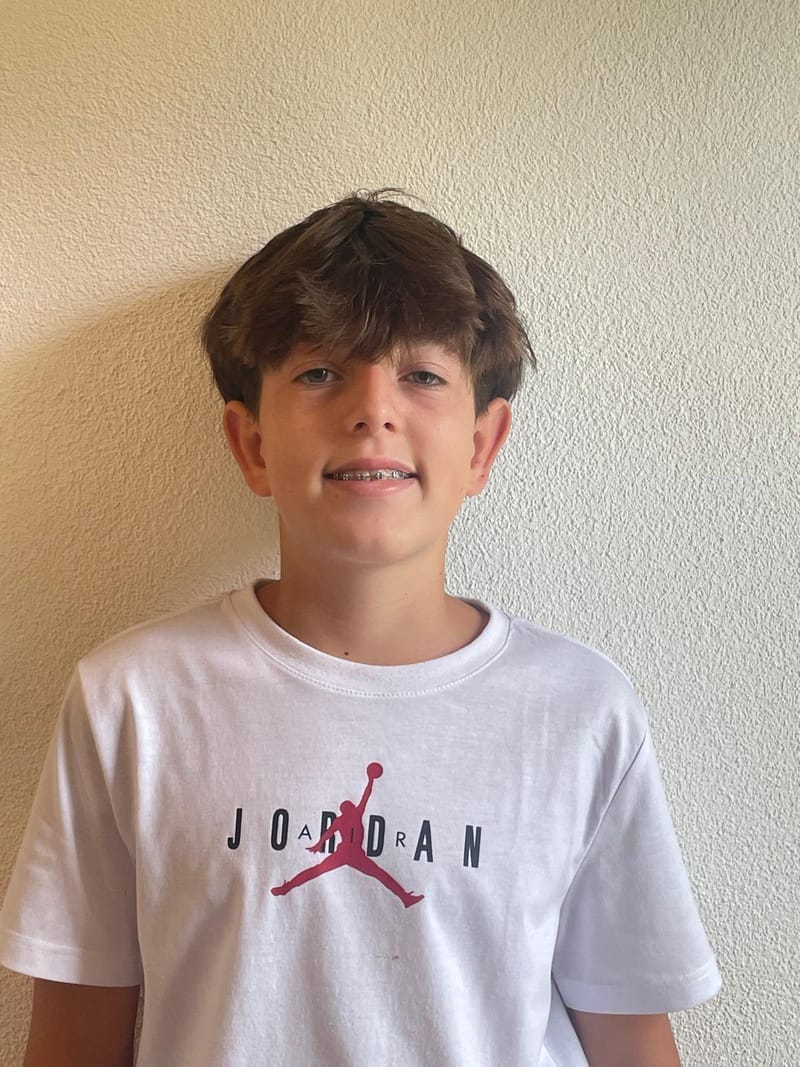
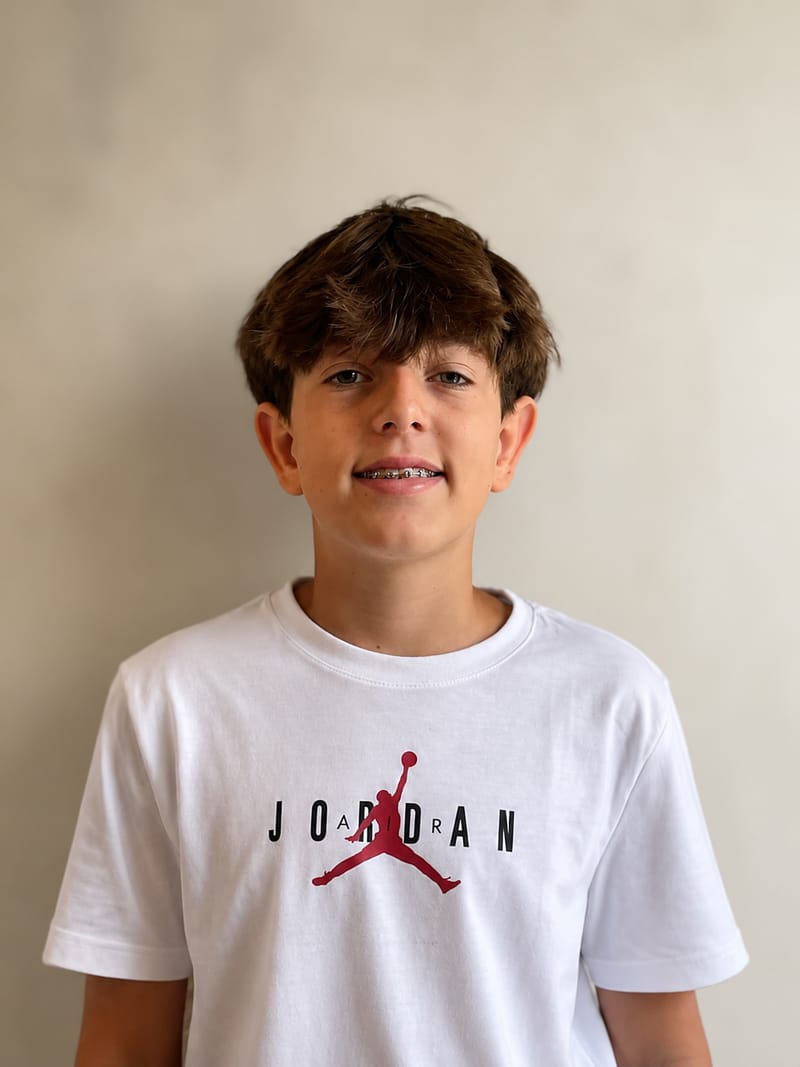
SEO verbesserungen Neues robots.txt und sitemap.xml Performance optimierung für bilder ladezeiten Hauptbild optimiert github verlinkung optimiert

diff --git a/index.html b/index.html
@@ -35,7 +35,7 @@
    11. <script src>    – Einbindung script.js
   ============================================================
 -->
-<html lang="de">
+<html lang="de-CH">
 <head>
   <!-- ─────────────────────────────────────────────────────
        META & SEO
@@ -44,9 +44,10 @@
   ───────────────────────────────────────────────────────── -->
   <meta charset="UTF-8" />
   <meta name="viewport" content="width=device-width, initial-scale=1.0" />
-  <meta name="description" content="Jaron Sommer – Schüler aus Wiedlisbach, auf der Suche nach einer Lehrstelle als Informatiker/in EFZ Applikationsentwicklung. Zweitwunsch: Automatiker oder Mediamatiker." />
+  <meta name="description" content="Jaron Sommer – Schüler aus Wiedlisbach (Kanton Bern), auf der Suche nach einer Lehrstelle als Informatiker/in EFZ Applikationsentwicklung oder Automatiker/in EFZ. Start August 2027." />
   <meta name="author" content="Jaron Sommer" />
-  <title>Jaron Sommer</title>
+  <link rel="canonical" href="https://jaronsommer.github.io/" />
+  <title>Jaron Sommer – Lehrstelle Informatiker EFZ oder Automatiker</title>
 
   <!-- ─────────────────────────────────────────────────────
        FAVICON
@@ -56,22 +57,33 @@
   <link rel="icon" type="image/svg+xml" href="favicon.svg" />
 
   <!-- ─────────────────────────────────────────────────────
+       LCP-PRELOAD
+       Hero-Portrait ist das groesste sichtbare Element beim
+       Laden (Largest Contentful Paint). Preload startet den
+       Download frueh – noch vor CSS/Fonts – und verbessert
+       die wahrgenommene Ladezeit spuerbar.
+  ───────────────────────────────────────────────────────── -->
+  <link rel="preload" as="image" href="images/Jaron.jpg" fetchpriority="high" />
+
+  <!-- ─────────────────────────────────────────────────────
        SOCIAL SHARING (Open Graph & Twitter Card)
        Diese Tags steuern die Vorschau, wenn der Link in
        WhatsApp, Teams, LinkedIn, Slack oder per E-Mail
        geteilt wird: Titel, Beschreibung und Vorschaubild.
   ───────────────────────────────────────────────────────── -->
-  <meta property="og:type"        content="website" />
-  <meta property="og:url"         content="https://jaronsommer.github.io/" />
-  <meta property="og:title"       content="Jaron Sommer – auf Lehrstellensuche" />
-  <meta property="og:description" content="Schüler aus Wiedlisbach, auf der Suche nach einer Lehrstelle als Informatiker/in EFZ Applikationsentwicklung. Zweitwunsch: Automatiker oder Mediamatiker." />
-  <meta property="og:image"       content="https://jaronsommer.github.io/images/Jaron.jpg" />
-  <meta property="og:image:alt"   content="Portrait von Jaron Sommer" />
-  <meta property="og:locale"      content="de_CH" />
+  <meta property="og:type"         content="website" />
+  <meta property="og:url"          content="https://jaronsommer.github.io/" />
+  <meta property="og:title"        content="Jaron Sommer – auf Lehrstellensuche" />
+  <meta property="og:description"  content="Schüler aus Wiedlisbach, auf der Suche nach einer Lehrstelle als Informatiker/in EFZ Applikationsentwicklung oder Automatiker/in EFZ. Start August 2027." />
+  <meta property="og:image"        content="https://jaronsommer.github.io/images/Jaron.jpg" />
+  <meta property="og:image:alt"    content="Portrait von Jaron Sommer" />
+  <meta property="og:image:width"  content="800" />
+  <meta property="og:image:height" content="1067" />
+  <meta property="og:locale"       content="de_CH" />
 
   <meta name="twitter:card"        content="summary_large_image" />
   <meta name="twitter:title"       content="Jaron Sommer – auf Lehrstellensuche" />
-  <meta name="twitter:description" content="Schüler aus Wiedlisbach, auf der Suche nach einer Lehrstelle als Informatiker/in EFZ Applikationsentwicklung. Zweitwunsch: Automatiker oder Mediamatiker." />
+  <meta name="twitter:description" content="Schüler aus Wiedlisbach, auf der Suche nach einer Lehrstelle als Informatiker/in EFZ Applikationsentwicklung oder Automatiker/in EFZ. Start August 2027." />
   <meta name="twitter:image"       content="https://jaronsommer.github.io/images/Jaron.jpg" />
 
   <!-- ─────────────────────────────────────────────────────
@@ -84,6 +96,44 @@
   <link href="https://fonts.googleapis.com/css2?family=DM+Serif+Display&family=DM+Sans:wght@300;400;500;600&display=swap" rel="stylesheet" />
 
   <link rel="stylesheet" href="styles.css" />
+
+  <!-- ─────────────────────────────────────────────────────
+       STRUKTURIERTE DATEN (JSON-LD, schema.org/Person)
+       Hilft Google zu verstehen: Person auf Lehrstellensuche,
+       Wohnort, gesuchte Berufe, Sprachen, Kenntnisse.
+       Bei Inhalts-Änderungen (Wohnort, Berufswunsch) hier
+       mitpflegen – muss zum sichtbaren Text passen.
+  ───────────────────────────────────────────────────────── -->
+  <script type="application/ld+json">
+  {
+    "@context": "https://schema.org",
+    "@type": "Person",
+    "name": "Jaron Sommer",
+    "url": "https://jaronsommer.github.io/",
+    "image": "https://jaronsommer.github.io/images/Jaron.jpg",
+    "jobTitle": "Lernende/r in spe – Informatiker/in EFZ Applikationsentwicklung oder Automatiker/in EFZ",
+    "description": "Schüler aus Wiedlisbach (Kanton Bern) auf der Suche nach einer Lehrstelle als Informatiker/in EFZ Applikationsentwicklung oder Automatiker/in EFZ. Lehrbeginn August 2027.",
+    "address": {
+      "@type": "PostalAddress",
+      "addressLocality": "Wiedlisbach",
+      "addressRegion": "Bern",
+      "addressCountry": "CH"
+    },
+    "knowsLanguage": ["gsw", "de", "fr", "en"],
+    "knowsAbout": [
+      "Programmierung",
+      "Applikationsentwicklung",
+      "Automatik",
+      "Mediamatik",
+      "Microsoft Office 365"
+    ],
+    "seeks": {
+      "@type": "Demand",
+      "name": "Lehrstelle Informatiker/in EFZ Applikationsentwicklung oder Automatiker/in EFZ"
+    },
+    "sameAs": ["https://github.com/jaronsommer"]
+  }
+  </script>
 </head>
 <body>
 
@@ -155,7 +205,7 @@
 
     <!-- Right column: portrait photo -->
     <div class="hero-photo">
-      <img src="images/Jaron.jpg" alt="Jaron Sommer" />
+      <img src="images/Jaron.jpg" alt="Jaron Sommer" width="800" height="1067" fetchpriority="high" decoding="async" />
     </div>
 
   </div>
@@ -477,7 +527,7 @@
           An meinem Schnuppertag im Berufslernverbund habe ich den Beruf Automatiker kennengelernt und einen funktionsfähigen Gameboy von Grund auf gebaut. Dabei habe ich zum ersten Mal gelötet, Kabel konfektioniert und die einzelnen Bauteile zu einem fertigen Gerät zusammengesetzt.
         </p>
         <figure class="report-figure">
-          <img src="images/gameboy.jpeg" alt="Selbst zusammengebauter Gameboy mit gelöteten Komponenten" loading="lazy" />
+          <img src="images/gameboy.jpeg" alt="Selbst zusammengebauter Gameboy mit gelöteten Komponenten" width="800" height="1067" loading="lazy" decoding="async" />
         </figure>
         <a href="https://berufslernverbund.ch/" target="_blank" rel="noopener noreferrer" class="report-modal-link">berufslernverbund.ch ↗</a>
       </article>
@@ -507,7 +557,7 @@
       <!-- Projekt 1: TastenPanik -->
       <article class="project-card">
         <a href="https://jaronsommer.github.io/TastenPanik/" class="project-media" target="_blank" rel="noopener noreferrer" aria-label="Live-Demo TastenPanik öffnen">
-          <img src="images/tastenpanik.png" alt="Screenshot von TastenPanik – Level-Auswahl mit vier Karten" loading="lazy" />
+          <img src="images/tastenpanik.png" alt="Screenshot von TastenPanik – Level-Auswahl mit vier Karten" width="800" height="500" loading="lazy" decoding="async" />
           <span class="project-media-overlay">Live ansehen ↗</span>
         </a>
         <div class="project-body">
@@ -550,7 +600,7 @@
       <!-- Projekt 2: weisserLeopard -->
       <article class="project-card">
         <a href="https://jaronsommer.github.io/weisserLeopard/" class="project-media" target="_blank" rel="noopener noreferrer" aria-label="Live-Demo Weisser Leopard öffnen">
-          <img src="images/weisser-leopard.png" alt="Screenshot der Webseite ‚Die drei ??? und der weisse Leopard‘" loading="lazy" />
+          <img src="images/weisser-leopard.png" alt="Screenshot der Webseite ‚Die drei ??? und der weisse Leopard‘" width="800" height="500" loading="lazy" decoding="async" />
           <span class="project-media-overlay">Live ansehen ↗</span>
         </a>
         <div class="project-body">
@@ -593,7 +643,7 @@
       <!-- Projekt 3: Diese Portfolio-Webseite -->
       <article class="project-card">
         <a href="https://jaronsommer.github.io/" class="project-media" target="_blank" rel="noopener noreferrer" aria-label="Live-Demo Portfolio öffnen">
-          <img src="images/portfolio.png" alt="Screenshot der Portfolio-Webseite mit Hero und Portrait" loading="lazy" />
+          <img src="images/portfolio.png" alt="Screenshot der Portfolio-Webseite mit Hero und Portrait" width="800" height="500" loading="lazy" decoding="async" />
           <span class="project-media-overlay">Live ansehen ↗</span>
         </a>
         <div class="project-body">
@@ -634,6 +684,23 @@
       </article>
 
     </div>
+
+    <!-- ── GitHub-Profilkarte ─────────────────────────────
+         Dezenter Abschluss der Projekte: verweist aufs
+         GitHub-Profil, wo der Quellcode aller Projekte liegt.
+    ──────────────────────────────────────────────────── -->
+    <aside class="github-cta">
+      <svg class="github-cta-mark" viewBox="0 0 16 16" fill="currentColor" aria-hidden="true">
+        <path d="M8 0C3.58 0 0 3.58 0 8c0 3.54 2.29 6.53 5.47 7.59.4.07.55-.17.55-.38 0-.19-.01-.82-.01-1.49-2.01.37-2.53-.49-2.69-.94-.09-.23-.48-.94-.82-1.13-.28-.15-.68-.52-.01-.53.63-.01 1.08.58 1.23.82.72 1.21 1.87.87 2.33.66.07-.52.28-.87.51-1.07-1.78-.2-3.64-.89-3.64-3.95 0-.87.31-1.59.82-2.15-.08-.2-.36-1.02.08-2.12 0 0 .67-.21 2.2.82.64-.18 1.32-.27 2-.27.68 0 1.36.09 2 .27 1.53-1.04 2.2-.82 2.2-.82.44 1.1.16 1.92.08 2.12.51.56.82 1.27.82 2.15 0 3.07-1.87 3.75-3.65 3.95.29.25.54.73.54 1.48 0 1.07-.01 1.93-.01 2.2 0 .21.15.46.55.38A8.013 8.013 0 0016 8c0-4.42-3.58-8-8-8z"/>
+      </svg>
+      <div class="github-cta-text">
+        <p class="github-cta-title">Mehr auf GitHub</p>
+        <p class="github-cta-desc">Der vollständige Quellcode all meiner Projekte ist öffentlich einsehbar.</p>
+      </div>
+      <a href="https://github.com/jaronsommer" class="github-cta-btn" target="_blank" rel="noopener noreferrer">
+        Profil ansehen ↗
+      </a>
+    </aside>
   </div>
 </section>
 

diff --git a/styles.css b/styles.css
@@ -297,6 +297,7 @@
        regardless of the image's original dimensions. */
     .hero-photo img {
       width: 100%;
+      height: auto;              /* overrides the HTML height attr (presentation hint) so aspect-ratio governs the box */
       aspect-ratio: 3 / 4;       /* portrait proportion */
       object-fit: cover;
       object-position: center top; /* favour the face */
@@ -1044,6 +1045,60 @@
       color: var(--white);
     }
 
+    /* GitHub-Profilkarte: ruhiger Abschluss unter dem Projekte-Raster */
+    .github-cta {
+      display: flex;
+      align-items: center;
+      gap: 1.25rem;
+      margin-top: 2rem;
+      padding: 1.5rem 1.75rem;
+      border: 1px solid var(--ink-faint);
+      border-radius: var(--radius-md);
+      background: var(--white);
+      transition: border-color 0.25s ease, box-shadow 0.25s ease;
+    }
+    .github-cta:hover {
+      border-color: var(--accent);
+      box-shadow: 0 14px 32px rgba(43,92,230,0.12);
+    }
+    .github-cta-mark {
+      width: 34px;
+      height: 34px;
+      flex-shrink: 0;
+      color: var(--ink);
+    }
+    .github-cta-text {
+      flex: 1;
+      min-width: 0;
+    }
+    .github-cta-title {
+      font-weight: 600;
+      font-size: 1rem;
+      color: var(--ink);
+    }
+    .github-cta-desc {
+      font-size: 0.85rem;
+      color: var(--ink-light);
+      margin-top: 0.15rem;
+    }
+    .github-cta-btn {
+      flex-shrink: 0;
+      display: inline-flex;
+      align-items: center;
+      padding: 0.55rem 1.15rem;
+      border-radius: 100px;
+      font-size: 0.8rem;
+      font-weight: 500;
+      border: 1px solid var(--ink);
+      background: var(--ink);
+      color: var(--white);
+      transition: background 0.18s ease, border-color 0.18s ease;
+    }
+    .github-cta-btn:hover {
+      background: var(--accent);
+      border-color: var(--accent);
+    }
+
     /* ══════════════════════════════════════════════════════
        SKILLS-SEKTION
        Drei Blöcke: Sprachen, IT-Tools, Interessen/Hobbys.
@@ -1267,15 +1322,20 @@
 
     .footer-link {
       font-size: 0.78rem;
-      color: var(--ink-faint);
+      color: var(--ink-light);
       text-decoration: none;
-      display: flex;
+      display: inline-flex;
       align-items: center;
-      gap: 5px;
-      transition: color 0.2s;
+      gap: 7px;
+      padding: 0.4rem 0.85rem;
+      border: 1px solid var(--ink-faint);
+      border-radius: 100px;
+      transition: color 0.2s ease, border-color 0.2s ease, background 0.2s ease;
     }
     .footer-link:hover {
-      color: var(--ink-light);
+      color: var(--accent);
+      border-color: var(--accent);
+      background: var(--accent-bg);
     }
 
     /* ══════════════════════════════════════════════════════
@@ -1315,6 +1375,14 @@
         gap: 2rem;
       }
       .explorations-grid { gap: 0.85rem; }
+
+      /* GitHub-Profilkarte: vertikal stapeln, zentriert */
+      .github-cta {
+        flex-direction: column;
+        text-align: center;
+        gap: 1rem;
+      }
+      .github-cta-btn { width: 100%; justify-content: center; }
 
       /* Hero: stack text above photo on mobile */
       .hero-content {
@@ -1373,6 +1441,7 @@
       .exploration-report-hint,
       .report-modal-close,
       .btn-pdf,
+      .github-cta,
       .contact-note {
         display: none !important;
       }
@@ -1578,6 +1647,12 @@
       .footer-text, .footer-link, .footer-note {
         font-size: 9pt;
         color: #555 !important;
+      }
+      /* Footer-Link im Druck ohne Pill-Rahmen (am Bildschirm ein Button) */
+      .footer-link {
+        border: none;
+        padding: 0;
+        background: none;
       }
 
       /* Trennlinien-Margen reduzieren */

diff --git a/README.md b/README.md
@@ -30,6 +30,8 @@ Die Seite enthält folgende Sektionen:
 - **GitHub Pages** – kostenloses statisches Hosting
 - **Responsive** – funktioniert auf Mobile, Tablet & Desktop
 - **Druck- & Share-optimiert** – Print-Stylesheet, „Als PDF speichern"-Button (`window.print()`), Open Graph Tags, Favicon
+- **SEO** – sprechender `<title>`, Meta-Description, `canonical`, Open Graph / Twitter Cards, strukturierte Daten (JSON-LD `schema.org/Person`), `robots.txt` und `sitemap.xml`
+- **Performance** – LCP-Preload + `fetchpriority` fürs Hero-Bild, `width`/`height` auf allen Bildern (verhindert Layout-Shift/CLS), `loading="lazy"` + `decoding="async"` für nicht sofort sichtbare Bilder
 - **Privacy-friendly Analytics** – [counter.dev](https://counter.dev) (kein Cookie-Banner nötig, keine personenbezogenen Daten)
 
 ---
@@ -43,6 +45,8 @@ jaronsommer.github.io/
 ├── styles.css              # Layout, Farben, Animationen, Print-Stylesheet
 ├── script.js               # Navigation, Scroll-Reveal, Mailto-Link, PDF-Button
 ├── favicon.svg             # Browser-Tab-Icon ("J" in Akzentblau)
+├── robots.txt              # Crawler-Freigabe + Verweis auf sitemap.xml
+├── sitemap.xml             # Sitemap für Suchmaschinen (eine URL, <lastmod> pflegen)
 ├── optimize-images.ps1     # Helper-Script: komprimiert images/ via sharp (Node nötig)
 ├── README.md               # Diese Datei
 ├── .gitignore              # Ausgeschlossene Dateien
@@ -61,18 +65,22 @@ jaronsommer.github.io/
 | `styles.css`  | Farben, Schriften, Abstände, Layout, Hover-Effekte, Print-Stylesheet            |
 | `script.js`   | Verhalten (Menü-Toggle, Scroll-Effekte, PDF-Button, Mailto-Schutz)              |
 | `favicon.svg` | Tab-Icon (aktuell ein kursives „J" – kann mit jedem Vektor-Editor geändert werden) |
+| `sitemap.xml` | Bei Inhaltsänderung `<lastmod>` aufs Datum setzen; neue HTML-Seiten als `<url>` ergänzen |
+| `robots.txt`  | Nur wenn neue Pfade vom Crawling aus-/eingeschlossen werden sollen               |
 
 ### Bilder hinzufügen
 
 Neue Bilder immer im Ordner `images/` speichern und in `index.html` so einbinden:
 
 ```html
-<img src="images/dateiname.jpg" alt="Beschreibung" />
+<img src="images/dateiname.jpg" alt="Beschreibung" width="800" height="500" loading="lazy" decoding="async" />
 ```
 
 **Tipps:**
 - Dateinamen ohne Leerzeichen und Sonderzeichen (z.B. `foto.jpg` statt `mein foto (1).jpg`)
 - Format: JPG für Fotos, PNG für Grafiken mit transparentem Hintergrund
+- **`width`/`height` immer angeben** (die echten Pixelmasse) – verhindert Layout-Shift (CLS) beim Laden. Masse prüfen: Rechtsklick → Eigenschaften, oder `optimize-images.ps1` resized auf 800px Breite.
+- **`loading="lazy"` + `decoding="async"`** für Bilder unterhalb des ersten Bildschirms. Das Hero-Bild ist die Ausnahme: es lädt sofort (`fetchpriority="high"`, Preload im `<head>`).
 - **Vor dem Commit komprimieren**: `.\optimize-images.ps1` ausführen (resized auf 800px, ~70% kleiner). Benötigt Node.js (für `npx sharp-cli`). Beispiel: `.\optimize-images.ps1 images\meinfoto.jpg`
 
 ---

diff --git a/CLAUDE.md b/CLAUDE.md
@@ -45,7 +45,7 @@ Bewusst zurückhaltend: ein orchestrierter Page-Load (gestaffelte `fadeUp` mit 0
 ## Claude-Tooling in diesem Repo (.claude/)
 
 - **`.claude/settings.json`** (committed): aktiviert das `frontend-design` Plugin (`anthropics/claude-code` Marketplace) und registriert einen `PostToolUse`-Hook auf `Write|Edit|MultiEdit`.
-- **`.claude/readme-reminder.ps1`** (committed): der Hook. Macht **zwei Checks** bei jeder Datei-Änderung: (a) reminded README-Update wenn eine Nicht-README/Nicht-`.claude/`-Datei geändert wird; (b) reminded `optimize-images.ps1` wenn irgendein Bild in `images/` >150 KB ist. Reminders kumulieren. **Hinweis: Windows-only** (PowerShell). Auf macOS/Linux würde der Hook fehlschlagen — bei Cross-Platform-Bedarf umschreiben.
+- **`.claude/readme-reminder.ps1`** (committed): der Hook. Macht **drei Checks** bei jeder Datei-Änderung: (a) reminded README-Update wenn eine Nicht-README/Nicht-`.claude/`-Datei geändert wird; (b) reminded `optimize-images.ps1` wenn irgendein Bild in `images/` >150 KB ist; (c) reminded bei `.html`-Änderungen, `sitemap.xml` (`<lastmod>` aufs aktuelle Datum, neue Seiten als zusätzliche `<url>`) und ggf. `robots.txt` aktuell zu halten. Reminders kumulieren. **Hinweis: Windows-only** (PowerShell). Auf macOS/Linux würde der Hook fehlschlagen — bei Cross-Platform-Bedarf umschreiben.
 - **`.claude/settings.local.json`** (gitignored): persönliche Permissions, nicht für andere Maschinen relevant.
 
 **Wichtig zum `frontend-design` Plugin:** Die Skill propagiert „bold, distinctive, brutalist/maximalist" Designs. Das ist für diese Seite **bewusst nicht** das Ziel — die zurückhaltende Minimalismus-Richtung ist eine Antwort auf die Zielgruppe (Lehrbetriebe wollen seriös, nicht ausgefallen). Skill-Vorschläge daher immer gegen das Audience-Briefing abwägen.
